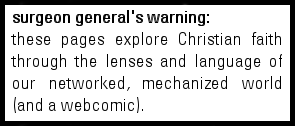
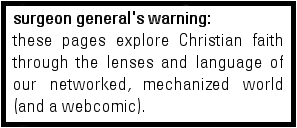
hyde test cont'd

Changed region(s): [[0.0, 0.0, 1.0, 1.0], [0.1525, 0.5952, 0.4576, 0.7143], [0.4576, 0.7619, 0.4881, 0.7857]]

diff --git a/_includes/sidebar.html b/_includes/sidebar.html
@@ -114,14 +114,7 @@
         {% endif %}
       {% endfor %}     
     </nav>
-
-    <p class="message">
-    <font style="text-decoration: underline;"><b>surgeon general's warning</b></font><br>
-    this site explores Christian theology, scripture and praxis through the lenses and language of our networked, mechanized world.
-    </p>
-    <p class="message">
-      ...and a webcomic.
-    </p>
+    <img src="/public/img/warning.png">
     <p>&copy; {{ site.time | date: '%Y' }}. All rights reserved.</p>
   </div>
 </div>

diff --git a/noahsinc.md b/noahsinc.md
@@ -1,7 +1,7 @@
 ---
 layout: page
 title: noahs, inc.
-navtext: comic
+navtext: comics
 rootlink: true
 menu: root
 ---
